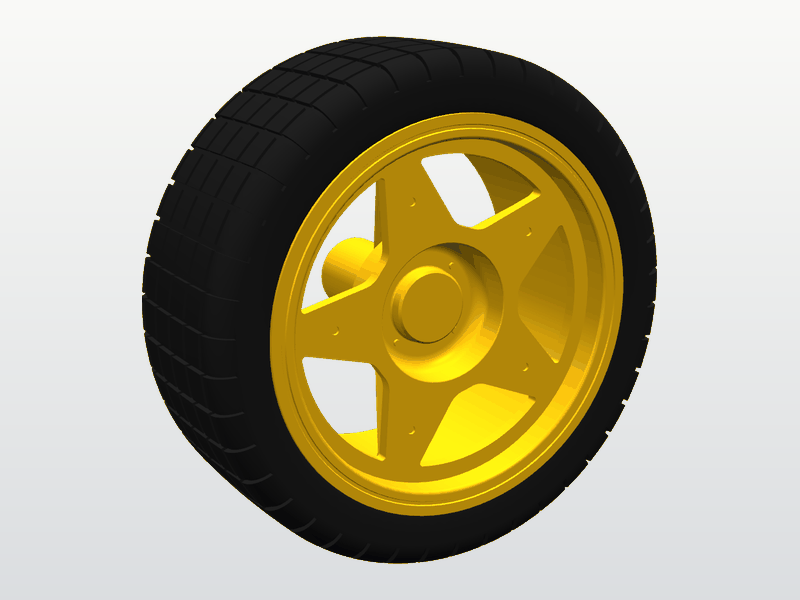
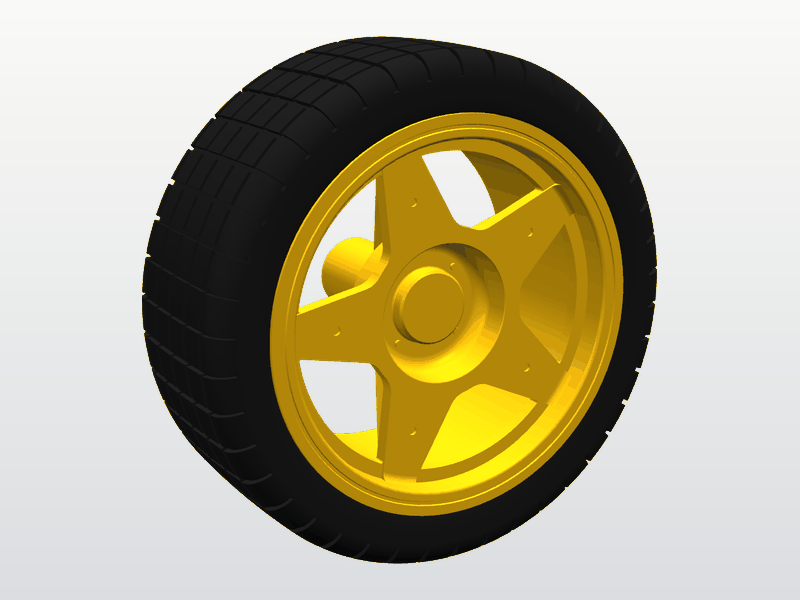
Wheel: provenance, README row and pictures for the measured rim
The provenance page describes the rim as the generator builds it: the
flanges' and ridges' measured tops, the ridges' rounded top edges that
make the widths add up to the rim's 25.00 mm, the lip standing 1.8 mm
inward, and the spokes that run over the lip to the barrel's inside.
The page says which of these are measured and which are estimates, and
lists the measurements that would settle the open ones.

The README row has the mesh's 70,456 triangles and file sizes, and the
wheel's picture and the overview are rendered from the new meshes.

diff --git a/provenance/tt_motor_wheel_65mm.md b/provenance/tt_motor_wheel_65mm.md
@@ -10,9 +10,9 @@ Generator: [`generators/tt_motor_wheel_65mm.py`](../generators/tt_motor_wheel_65
 
 `tt_motor_wheel_65mm`: one mesh with two sub-parts, `rim` (material `rim`, yellow) and `tyre` (material `tyre`, black). Each is a closed solid, and they don't intersect. The STL file is closed and consistently oriented: two closed shells, with a modelling clearance of 0.02 mm where the tyre sits on the rim.
 
-- **Barrel:** 25.00 mm wide, with a flange at each end (Ø51.22 mm), four grooves and three ridges between them (groove bottoms Ø47.91 mm, ridges Ø50.9 mm), and seven axial ribs across the two middle grooves. From the outer flange towards the motor side: a rectangular groove 3.9 mm wide, a groove 5.8 mm wide at the top and 4.1 mm at the bottom with two sloped walls, a groove 4.8 mm wide at the top and 3.9 mm at the bottom whose wall on the outer-face side is vertical, and a rectangular groove 3.9 mm wide. The flanges' outer corners are sharp, their inner corners round.
-- **Outer face:** the outer flange's face is flat and 3.2 mm high, with a fine groove 0.6 mm wide, 1.3 mm from each edge. Inside the flange the barrel is Ø44.82 mm and plain for 3.5 mm. Then a lip 1.7 mm wide stands inward to Ø40.5 mm. Behind the lip the barrel is Ø45.1 mm to the motor-side end.
-- **Spokes and hub:** the lip, five spokes and the hub's flat face are one plate, 1.7 mm thick, its face 3.5 mm behind the outer flange face. The spokes are flat and symmetric about a radial centre line. They taper from 8.9 mm near the hub to 5.35 mm at their narrowest, just before their sides curve into the lip. Curved blends widen them at both ends, and each has a round mark. In the centre a bowl is recessed into the face, its edge in that face (Ø17.9 mm). Its wall runs almost straight down to the depth of the boss's top (Ø17.62 mm there), then rounds into a flat floor (Ø13.8 mm) with four small pins, 5.0 mm below the face. The boss (Ø9.69 mm) stands on the floor, its top 3.0 mm below the face. Behind the face the bowl's outside (Ø20.64 mm) shows through the windows. Behind each spoke are a narrow web and a fin up the hub tube.
+- **Barrel:** 25.00 mm wide, with a flange at each end (Ø51.22 mm), four grooves and three ridges between them (groove bottoms Ø47.91 mm, ridges Ø50.9 mm), and seven axial ribs across the two middle grooves. The flanges' flat tops are 1.42 mm (outer) and 1.58 mm (motor side) wide, each ridge's flat top 0.88 mm. From the outer flange towards the motor side, measured between the walls: a rectangular groove 3.9 mm wide, a groove 5.8 mm wide at the top and 4.1 mm at the bottom with two sloped walls, a groove 4.8 mm wide at the top and 3.9 mm at the bottom whose wall on the outer-face side is vertical, and a rectangular groove 3.9 mm wide. The ridges' top edges are rounded by 0.16 mm, and their flat tops start 5.48, 12.48 and 18.48 mm from the outer face. The flanges' outer corners are sharp, their inner corners round.
+- **Outer face:** the outer flange's face is flat and 3.2 mm high, with a fine groove 0.6 mm wide, 1.3 mm from each edge. Inside the flange the barrel is Ø44.82 mm and plain for 3.5 mm. Then a lip 1.7 mm wide stands 1.8 mm inward, to Ø41.22 mm. Behind the lip the barrel is Ø45.1 mm to the motor-side end.
+- **Spokes and hub:** five flat spokes run from the hub's flat face over the lip to the barrel's inside. Their face lies 3.2 mm behind the outer flange face, 0.3 mm in front of the lip, and each tip rises to the barrel's inside with a round of 1.0 mm. The spokes and the hub's face are one plate 2.0 mm thick, its back level with the lip's back. The spokes are symmetric about a radial centre line. Their straight sides taper from 8.9 mm near the hub to 5.6 mm where they cross the lip's inner edge and 4.8 mm at the barrel. Curved blends widen them into the hub's face, the windows' corners at the lip are round, and each spoke has a round mark. In the centre a bowl is recessed into the face, its edge in that face (Ø17.9 mm). Its wall runs almost straight down to the depth of the boss's top (Ø17.62 mm there), then rounds into a flat floor (Ø13.8 mm) with four small pins, 5.0 mm below the face. The boss (Ø9.69 mm) stands on the floor, its top 3.0 mm below the face. Behind the face the bowl's outside (Ø20.64 mm) shows through the windows. Behind each spoke are a narrow web and a fin up the hub tube.
 - **Motor side:** the hub tube (Ø9.95 mm) on a collar (Ø15.27 mm), the double-D bore (Ø5.44 mm across the round sides), the tube standing 3.42 mm past the flange.
 - **Tyre:** Ø66.6 mm, a hollow section like a car tyre's. The beads at its inner diameter (Ø49.4 mm) sit inside the rim, each in the groove next to a flange, held there because the bead is smaller than the flange and the ridge. The bead lip, where the bead touches the rim, is 0.74 mm thick. The sidewalls rise over the flanges and are widest halfway up (Ø59.2 mm), flush with the flanges' faces, 25.00 mm across. The crown is a little narrower and slightly crowned. Inside, an arched channel spans the barrel's three ridges: its ceiling lies 5.8 mm below the tread in the middle and 7.5 mm near the beads (the wall readings, their places across the tyre assumed). Six block columns and 42 rows of nearly square blocks.
 
@@ -28,12 +28,12 @@ The tyre's radius is 33.3 mm. The axle lies one URDF wheel radius above `base_fo
 
 | What | Source |
 |---|---|
-| Rim and tyre dimensions (the parameters marked pNN in the generator) | Caliper measurements of a wheel with the tyre taken off the rim, photos p01–p41, taken by the project (not published). Flange Ø51.22 (p01, p41: 51.25), groove bottoms Ø47.91 (p02), barrel wall with flange 3.06 at the motor-side end (p28), flange to flange 25.00 (p40), rim length 28.42 (p33), the bowl's outside behind the face Ø20.64 (p24) and its inside Ø17.62 at the boss's top (p21), boss Ø9.69 (p23), spoke width 5.35 at its tip (p25), the spoke's back 3.47 (p18, p19), fin 1.51 (p31), hub tube Ø9.97 and Ø9.92 (p29, p30), collar Ø15.27 (p15), bore Ø5.44 across the round sides (p14), tread to the tyre's inside 5.77, 6.88 and 7.46 (p04–p06), bead to tread 8.38 and 8.82 (p07, p08), the bead lip's thickness where it touches the rim 0.74 (p03) |
-| The barrel's grooves, the outer flange's face, the barrel's inside and the hub's depths (the parameters marked "measured" in the generator) | Caliper measurements of the same wheel, taken by the project without photos. The four grooves' widths at their tops and bottoms and their wall shapes. The face's 3.2 mm, with the fine groove 1.3 mm from each edge. 3.5 mm from the outer face to the lip and the lip's 1.7 mm. Sharp outer and round inner corners on both flanges. The bowl's floor 5.0 mm and the boss's top 3.0 mm below the spokes' face |
+| Rim and tyre dimensions (the parameters marked pNN in the generator) | Caliper measurements of a wheel with the tyre taken off the rim, photos p01–p41, taken by the project (not published). Flange Ø51.22 (p01, p41: 51.25), groove bottoms Ø47.91 (p02), barrel wall with flange 3.06 at the motor-side end (p28), flange to flange 25.00 (p40), rim length 28.42 (p33), the bowl's outside behind the face Ø20.64 (p24) and its inside Ø17.62 at the boss's top (p21), boss Ø9.69 (p23), spoke width 5.35 near its tip (p25), the spoke's back 3.47 (p18, p19), fin 1.51 (p31), hub tube Ø9.97 and Ø9.92 (p29, p30), collar Ø15.27 (p15), bore Ø5.44 across the round sides (p14), tread to the tyre's inside 5.77, 6.88 and 7.46 (p04–p06), bead to tread 8.38 and 8.82 (p07, p08), the bead lip's thickness where it touches the rim 0.74 (p03) |
+| The barrel's grooves, the outer flange's face, the barrel's inside and the hub's depths (the parameters marked "measured" in the generator) | Caliper measurements of the same wheel, taken by the project without photos. The four grooves' widths at their tops and bottoms and their wall shapes. The flanges' flat tops (1.4 to 1.45 and 1.55 to 1.6 mm), the ridges' flat tops (0.88 to 1.0 mm) and where they start from the outer face (5.5, 12.4 and about 18.5 mm). The face's 3.2 mm, with the fine groove 1.3 mm from each edge. 3.5 mm from the outer face to the lip, the lip's 1.7 mm, and the 1.8 mm it stands inward. The spokes' face about 3.2 mm behind the outer flange face, the round of about 1 mm at each spoke's tip, and the spoke's narrowest width before the lip, 5.6 mm. Sharp outer and round inner corners on both flanges. The bowl's floor 5.0 mm and the boss's top 3.0 mm below the spokes' face |
 | The tyre's section: hollow like a car tyre's, the beads narrower and inside the rim between the flanges, the sidewalls widest halfway up and flush with the flanges, the crown a little narrower | The project's description of the real tyre, with photos p03–p09 |
-| The flanges' top widths (1.8 and 2.2 mm), the ridges' diameter and the ribs | The silhouette of side photo p37, scaled with the 25.00 mm flange to flange. The three ridges' tops (0.87 mm each) share what the grooves and the flanges leave of the width |
-| The outer face's radii: the lip's inner edge Ø40.5 mm, the spokes' width near the hub (8.9 mm at r 13.2 mm) and their symmetry, the hub's flat face Ø22.4 mm, the bowl's edge Ø17.9 and floor Ø13.8 mm, four pins on the floor at r 6.15 mm, the spokes' marks at r 15.5 mm | Face-on photo p41, scaled with its own 51.25 mm reading. The lip's inner edge also on photo p25 |
-| The lip, the spokes and the hub's face as one plate, the spokes' sides curving into the lip | A close photo across the outer face, taken by the project (not published) |
+| The ridges' diameter and the ribs | The silhouette of side photo p37, scaled with the 25.00 mm flange to flange |
+| The outer face's radii: the spokes' width near the hub (8.9 mm at r 13.2 mm) and their symmetry, the hub's flat face Ø22.4 mm, the bowl's edge Ø17.9 and floor Ø13.8 mm, four pins on the floor at r 6.15 mm, the spokes' marks at r 15.5 mm | Face-on photo p41, scaled with its own 51.25 mm reading |
+| The spokes and the hub's face as one flat surface that reaches the barrel's inside, the windows' round corners at the lip | A close photo across the outer face, taken by the project (not published) |
 | Shapes not measured: the tread | Video frames of DiffBot's wheel, taken by the project (not published). The photo of Remo on ros-mobile-robots.com: [remo_front_side.jpg](https://ros-mobile-robots.com/resources/remo/remo_front_side.jpg) |
 | Tyre outer diameter 66.6 mm | Measured on DiffBot: 66.3 and 66.8 mm, in DiffBot's [`front_wheel.yaml`](https://github.com/ros-mobile-robots/diffbot/blob/noetic-devel/diffbot_description/config/diffbot/front_wheel.yaml) |
 | Bore flats 3.66 mm (not measured) | Product listings: [X2 Robotics, "Rubber Tire Wheel (Yellow 65mm)"](https://x2robotics.ca/wheels/rubber-tire-wheel-yellow-65mm) ("Hole Width Axis: 3.66 mm", "Long Shaft Hole: 5.3 mm") and [VXB](https://vxb.com/products/four-pack-68mm-tt-motor-hub-replacement-diy-kit-fo) ("hole 3.66mm × 5.3mm") |
@@ -42,24 +42,26 @@ The tyre's radius is 33.3 mm. The axle lies one URDF wheel radius above `base_fo
 
 ## Simplified or estimated
 
-- Estimated from photos: how far the lip stands inward (2.16 mm, to Ø40.5 mm), the flanges' top widths, the spokes' width near the hub, the radii where the spokes' sides curve into the lip (0.5 mm) and into the hub's face (3.0 mm), the round inner corners (0.5 mm) and the fine groove's depth (0.2 mm).
-- The spokes' face lies level with the lip's front, and the plate is as thick as the lip is wide. The photos show the two as one surface. A step of a few tenths of a millimetre between them can't be ruled out.
-- The spokes are 5.35 mm wide at their narrowest, just before their sides curve into the lip. Where along the spoke's tip this width was measured isn't recorded. The face-on photo shows about 6.2 mm at that place. So the model's taper is steeper than the photo's: 7.5 mm at r 15.6 mm and 5.6 mm at r 19 mm, where the photo shows 7.6 and 6.2 mm.
+- Estimated from photos: the spokes' width near the hub, the radii of the windows' corners at the lip (0.3 mm) and at the hub's face (3.0 mm), the flanges' round inner corners (0.5 mm) and the fine groove's depth (0.2 mm).
+- The measured flange tops, ridge tops and groove widths add up to 24.04 mm, 0.96 mm less than the rim's 25.00 mm. The model keeps all of them and rounds each of the ridges' six top edges by 0.16 mm, so a groove is wider between the flat tops than between its walls. The ridges' flat tops then start 5.48, 12.48 and 18.48 mm from the outer face, where 5.5, 12.4 and about 18.5 mm were measured. Whether the real edges are rounded isn't measured.
+- The spokes' face is taken as 3.2 mm behind the outer flange face, 0.3 mm in front of the lip. The measurement can also be read as 3.2 mm from the lip to the spokes' face, which would put that face 0.3 mm behind the outer flange face. The close photo shows the spokes' face and the lip as nearly one surface, which fits the first reading. The plate's back is level with the lip's back, so the plate is 2.0 mm thick: an estimate.
+- The spoke's narrowest width before the lip, 5.6 mm, is placed where the spoke crosses the lip's inner edge. The straight sides run on to the barrel, where the spoke is 4.8 mm wide. The 5.35 mm of photo p25 then lies at r 21.2 mm, between the lip's edge and the barrel. Between two windows at the lip's level the model reads 5.76 mm, because the windows' corners are round. The face-on photo shows 7.6, 7.0 and 6.2 mm at r 15.6, 17 and 19 mm, where the model has 7.8, 7.2 and 6.3 mm.
+- The four pins on the bowl's floor and the round mark on each spoke come from the face-on photo. Their sizes are estimates: the pins Ø0.9 mm and 0.4 mm high, the marks Ø1.1 mm, modelled as recesses 0.4 mm deep.
 - Behind the plate, these are estimates: the webs' depth (1.8 mm), the thickness of the bowl's floor (1.2 mm) and of the boss's closed top (0.8 mm), the collar's height (2.0 mm) and how far the fins reach up the hub tube.
 - The barrel's inside diameter behind the lip is measured at the motor-side end. The model keeps it constant up to the lip.
-- The tyre's width (flush with the flanges) follows the project's description, not a caliper reading. Estimated: the crown's width (18.6 mm) and drop (0.25 mm), the beads' width (1.8 mm), the channel's width (15.6 mm) and its half-elliptical arch, which takes the p04 reading as the middle and the p06 reading as near a bead (where each was taken isn't recorded), the pins' height, and the tread's groove width and depth (0.7 and 0.6 mm).
+- The tyre's width (flush with the flanges) follows the project's description, not a caliper reading. Estimated: the crown's width (18.6 mm) and drop (0.25 mm), the beads' width (1.8 mm), the channel's width (15.6 mm) and its half-elliptical arch, which takes the p04 reading as the middle and the p06 reading as near a bead (where each was taken isn't recorded), and the tread's groove width and depth (0.7 and 0.6 mm).
 - The tyre's sidewalls and shoulders are quarter ellipses. The real tyre's inside has thin rings that the model leaves out.
 - The motor-side collar is round. The real collar is scalloped between the fins.
-- The ridges, flanges and ribs have flat faces and sharp edges, except the flanges' inner corners.
+- The flanges, ridges and ribs have flat faces and sharp edges, except the flanges' inner corners and the ridges' top edges.
 
 ## Measurements that would improve the model
 
 With calipers:
 
 1. With the depth rod on the outer flange face: down to a spoke's face near its tip, and down to the lip between two spokes.
-2. How far the lip stands inward: one outside jaw through a window on the lip's inner edge, the other on the flange's outer rim.
-3. A spoke's width at its narrowest, just before the lip, and at two more places along the spoke. Its thickness, with one jaw on its face and one on its back.
-4. The flanges' top widths along the axle, and one ridge's top.
+2. Whether the three ridges' top edges are rounded, and one groove's width right at the top and halfway down.
+3. A spoke's width where it crosses the lip's inner edge, at the barrel's inside, and at two more places along the spoke. Its thickness, with one jaw on its face and one on its back.
+4. The pins in the bowl: how many, their diameter and height, and their distance from the boss. The marks on the spokes: their diameter, whether they go through the spoke, and their distance from the spoke's tip.
 5. The tyre on the rim: its width at the sidewalls' widest point and over the tread, and the step from each flange's face to the sidewall (0 if flush).
 6. The tyre off the rim: the wall from the tread's top to the tyre's inside, in the middle of the tread and 7 mm to each side of it.
 7. The tread's groove depth, at a groove between two blocks.

diff --git a/README.md b/README.md
@@ -19,7 +19,7 @@ These are display models for visualisation in RViz, Gazebo and web viewers. They
 | [Teensy 4.0 with two 14-pin headers](provenance/teensy_4_0.md) | <img src="docs/images/teensy_4_0.png" width="200" alt="Teensy 4.0"> | `teensy_4_0/teensy_4_0` | Remo | 25,520 | 1,276 / 1,654 / 899 kB |
 | [400-point solderless breadboard](provenance/breadboard_400_point.md) | <img src="docs/images/breadboard_400_point.png" width="200" alt="Breadboard"> | `breadboard_400_point/breadboard_400_point` | Remo | 6,768 | 338 / 428 / 290 kB |
 | [Raspberry Pi Camera Module v2](provenance/raspberry_pi_camera_v2.md) | <img src="docs/images/raspberry_pi_camera_v2.png" width="200" alt="Camera Module v2"> | `raspberry_pi_camera_v2/raspberry_pi_camera_v2` | Remo | 2,976 | 149 / 209 / 116 kB |
-| [Wheel 65 mm for TT gear motors](provenance/tt_motor_wheel_65mm.md) | <img src="docs/images/tt_motor_wheel_65mm.png" width="200" alt="Wheel"> | `tt_motor_wheel_65mm/tt_motor_wheel_65mm` | DiffBot, Remo | 58,888 | 2,944 / 3,436 / 1,460 kB |
+| [Wheel 65 mm for TT gear motors](provenance/tt_motor_wheel_65mm.md) | <img src="docs/images/tt_motor_wheel_65mm.png" width="200" alt="Wheel"> | `tt_motor_wheel_65mm/tt_motor_wheel_65mm` | DiffBot, Remo | 70,456 | 3,523 / 4,046 / 1,699 kB |
 
 Each mesh comes in three files in `meshes/<part>/`, all in metres:
 
